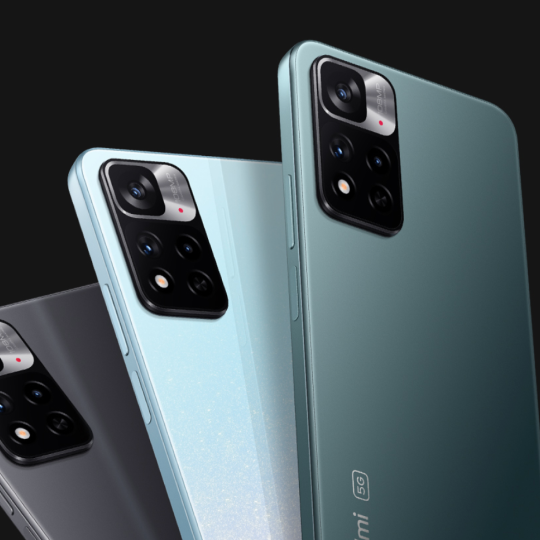
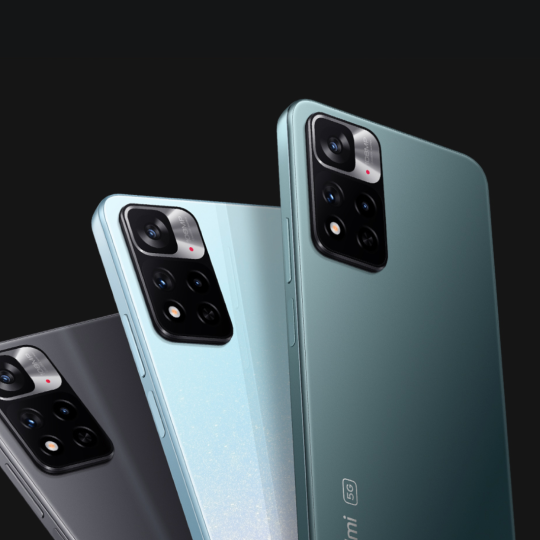
update

Changed region(s): [[0.0, 0.0593, 1.0, 1.0]]

diff --git a/src/app/components/home/home.component.html b/src/app/components/home/home.component.html
@@ -20,7 +20,8 @@
             </div>
 
             <div class="nested-tile">
-
+                <img src="https://raw.githubusercontent.com/imayden/imayden/main/public/covers/Redmi.png" loading="lazy"
+                alt=""> 
             </div>
         </div>
 
